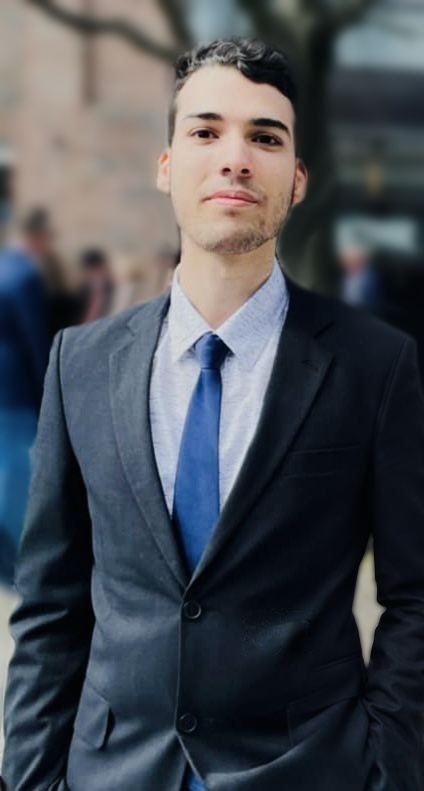
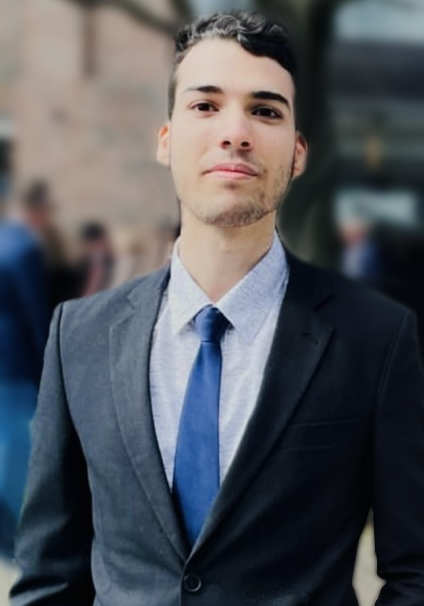
fixed minor misconfigurations

diff --git a/js/content.js b/js/content.js
@@ -6,7 +6,7 @@
 const SITE = {
   name: "Wissem Nouir",
   initials: "WN",
-  //role: "Computer engineer",
+  role: "",//"Computer engineer"
   photo: "assets/profile_picture.png",
   cv: "assets/CV(en).pdf",
   email: "wissemnouir1@gmail.com",
